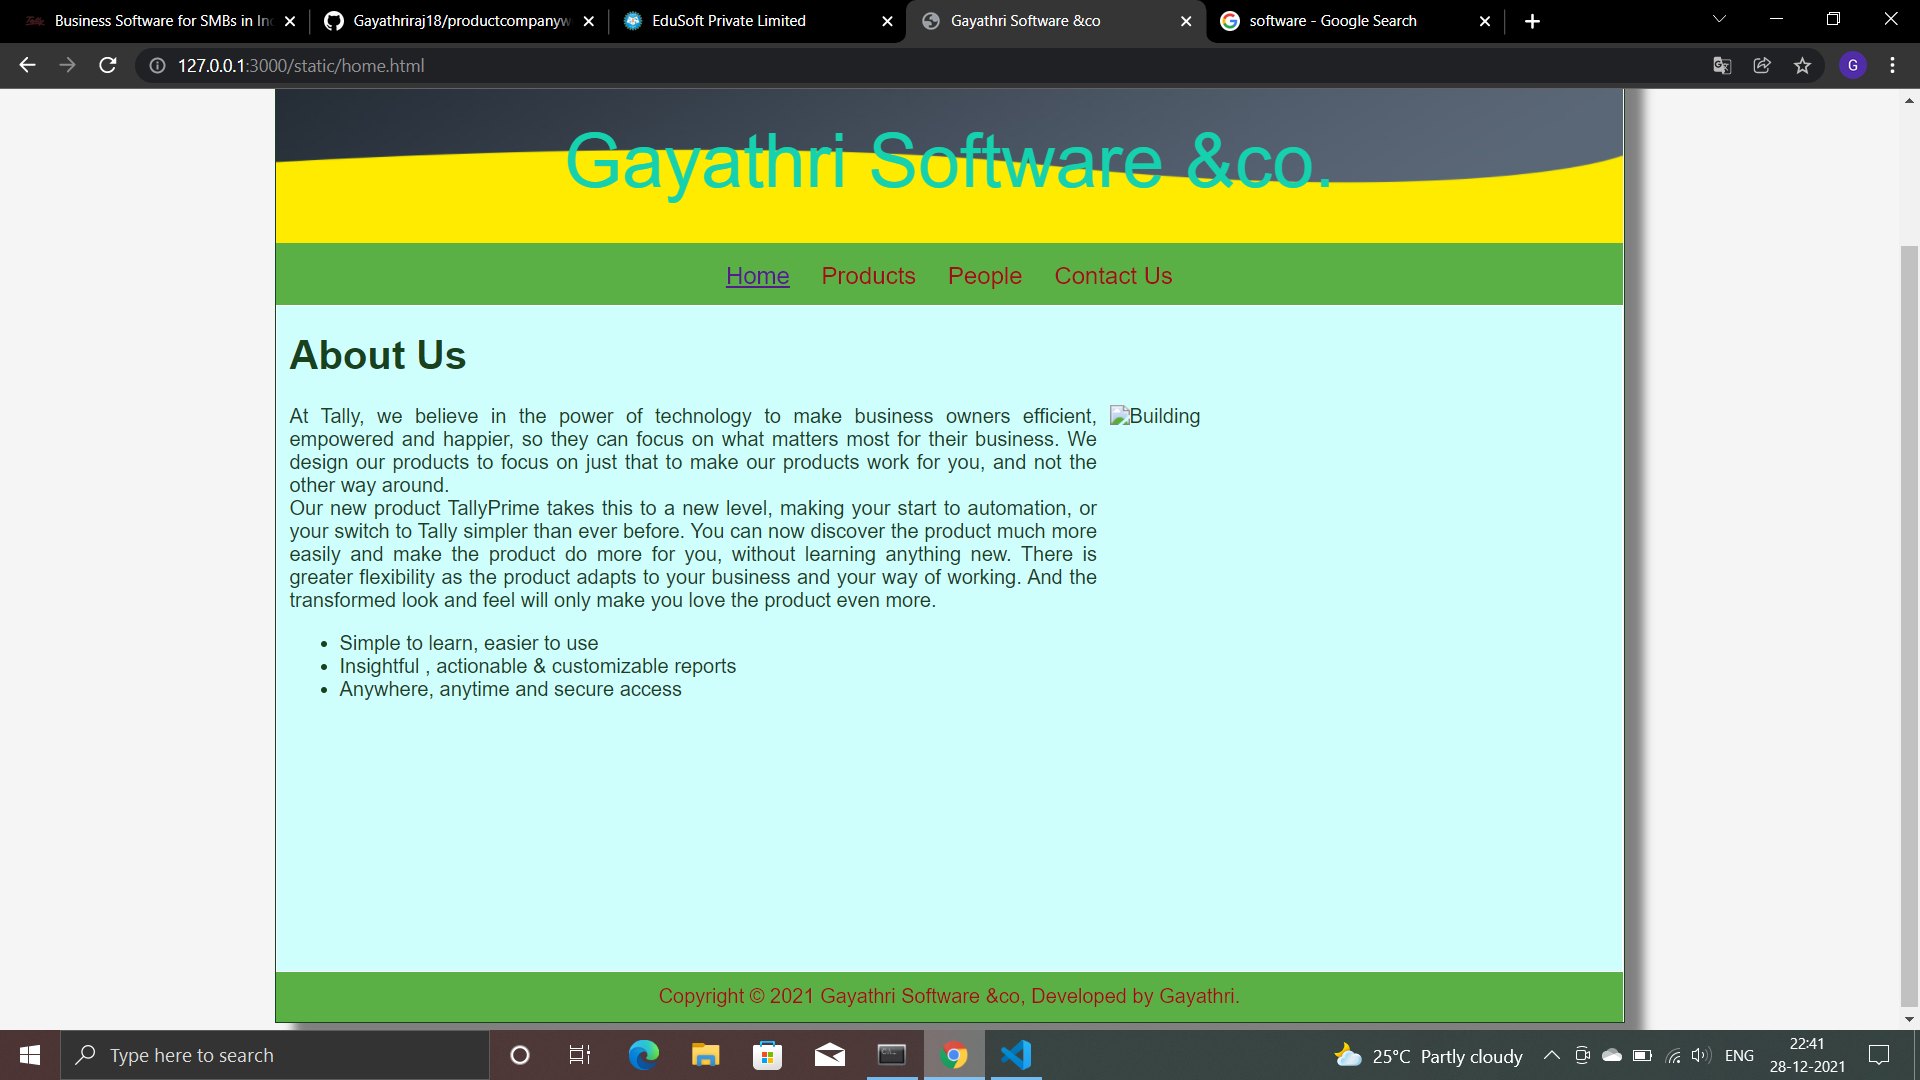
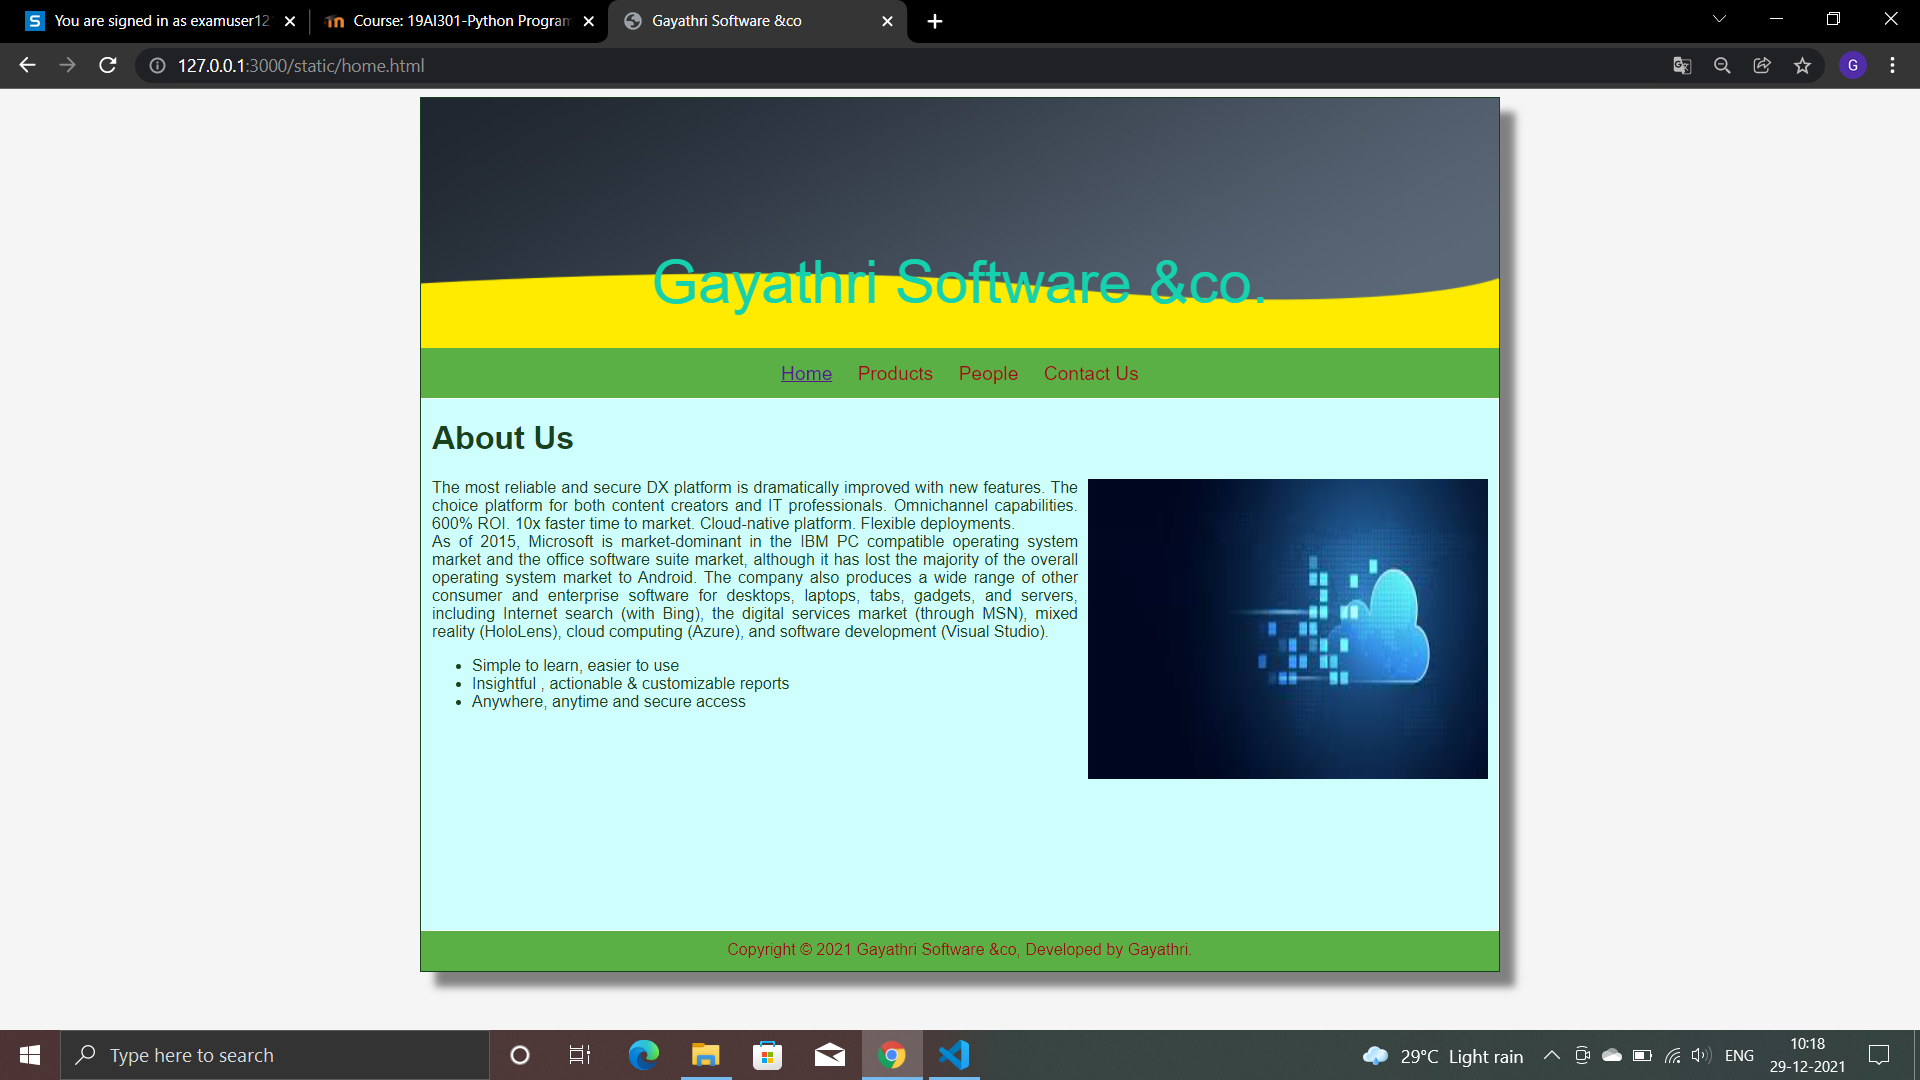
updated output

diff --git a/companywebsite/static/home.html b/companywebsite/static/home.html
@@ -18,21 +18,17 @@
       <div class="content">
         <div class="homecontent">
           <h1>About Us</h1>
-          <img src="./img/building.png" alt="Building" />
+          <img src="./img/banner2.jpg" alt="Building" />
           <div class="contenttext">
-            At Tally, we believe in the power of technology to make business
-            owners efficient, empowered and happier, so they can focus on what
-            matters most for their business. We design our products to focus on
-            just that to make our products work for you, and not the other way
-            around.
+            The most reliable and secure DX platform is dramatically improved with new features.
+            The choice platform for both content creators and IT professionals. Omnichannel capabilities.
+            600% ROI. 10x faster time to market. Cloud-native platform. Flexible deployments.
+
             <br />
-            Our new product TallyPrime takes this to a new level, making your
-            start to automation, or your switch to Tally simpler than ever
-            before. You can now discover the product much more easily and make
-            the product do more for you, without learning anything new. There is
-            greater flexibility as the product adapts to your business and your
-            way of working. And the transformed look and feel will only make you
-            love the product even more.
+            As of 2015, Microsoft is market-dominant in the IBM PC compatible operating system market and the office software suite market,
+            although it has lost the majority of the overall operating system market to Android.
+            The company also produces a wide range of other consumer and enterprise software for desktops, laptops, tabs, gadgets, and servers,
+            including Internet search (with Bing), the digital services market (through MSN), mixed reality (HoloLens), cloud computing (Azure), and software development (Visual Studio).
             <ul>
               <li>Simple to learn, easier to use</li>
               <li>Insightful , actionable & customizable reports</li>
